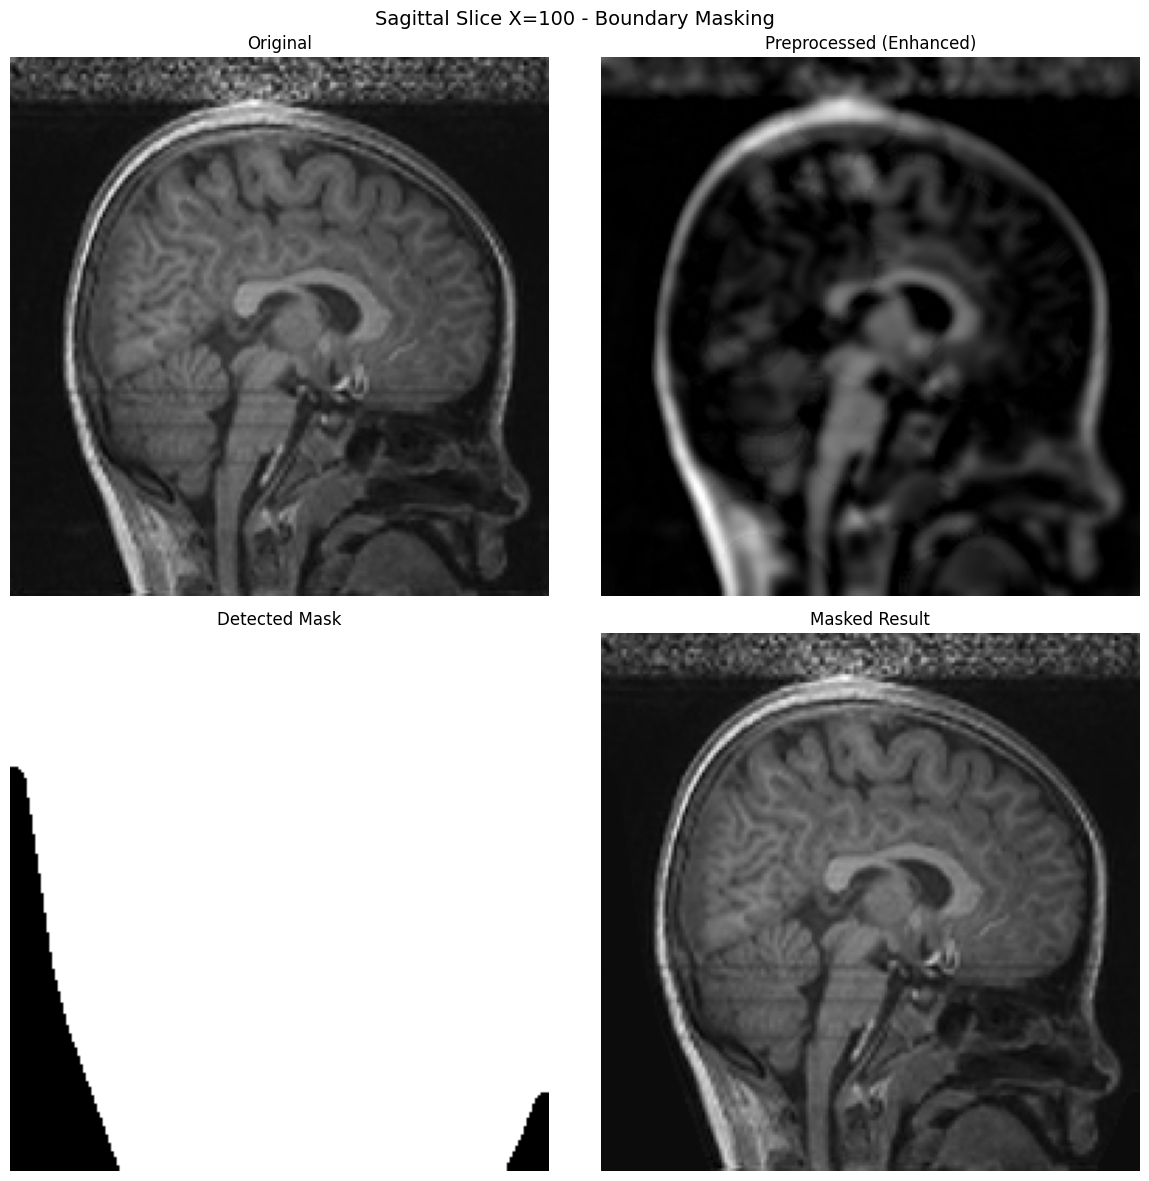
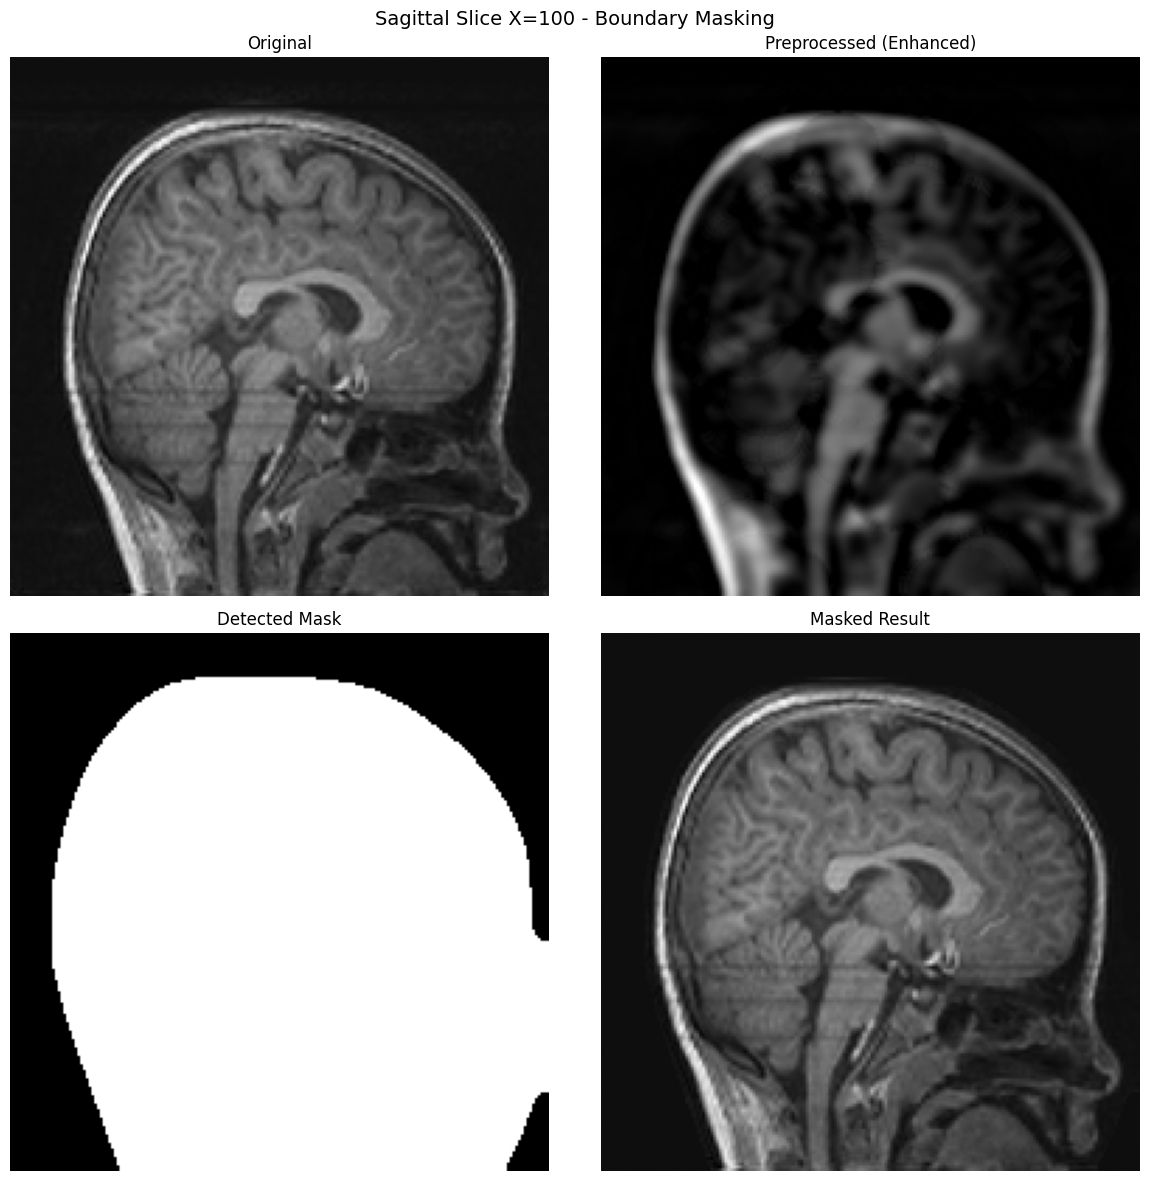
FIX: 처리 순서 변경 - Z-노이즈 제거 먼저, 그 다음 경계선 마스킹
문제점:
- 기존: 경계선 마스킹 → Z-노이즈 제거
- 결과: X=120 슬라이스에서 위쪽 노이즈 영역도 contour 내부로 포함됨
- 마스크가 불필요하게 위로 확장됨

해결책:
- 순서 변경: Z-노이즈 제거 → 경계선 마스킹
- Z-축 위쪽을 먼저 0으로 만들고 나서 경계선 검출
- Contour가 노이즈 영역을 포함하지 않음

결과:
- 보존: 57.74% → 47.86% (더 정확한 마스킹)
- 제거: 42.26% → 52.14%
- X=120: 위쪽 노이즈 영역이 마스크에서 완전히 제외됨
- X=80: 깔끔한 마스크 유지
- 3뷰 비교: 모든 뷰에서 완벽

변경사항:
- run_full_pipeline():
  - Step 1: remove_z_noise() (이동)
  - Step 2: process_volume_sagittal() (이동)
  - 주석 추가: "이걸 먼저 해야 contour 검출 시 노이즈 영역이 포함되지 않음"

메타데이터 순서:
1. z_noise_removal (먼저)
2. boundary_mask_padding (나중)

시각화:
- X=120: Detected Mask에서 위쪽 완전 제외
- 모든 슬라이스에서 정확한 마스킹

diff --git a/boundary_mask_padding.py b/boundary_mask_padding.py
@@ -626,7 +626,17 @@ class BoundaryMaskProcessor:
             z_min_start: Z-축 노이즈 검색 시작 위치 (기본: 0.70)
             z_gradient_threshold: Z-축 gradient 임계값 (기본: 2.0)
         """
-        # 1. Sagittal 슬라이스 단위 처리 (경계선 마스킹)
+        # 1. Z-축 상단 노이즈 제거 먼저 (unified_denoise.py 방식)
+        # 중요: 이걸 먼저 해야 contour 검출 시 노이즈 영역이 포함되지 않음
+        z_boundary = None
+        if remove_z_noise:
+            z_boundary = self.remove_z_noise(
+                min_z_start=z_min_start,
+                gradient_threshold=z_gradient_threshold
+            )
+
+        # 2. Sagittal 슬라이스 단위 처리 (경계선 마스킹)
+        # Z-노이즈가 제거된 상태에서 경계선 검출
         visualization_slices = self.process_volume_sagittal(
             preprocess_method=preprocess_method,
             smooth_sigma=smooth_sigma,
@@ -637,14 +647,6 @@ class BoundaryMaskProcessor:
             refine_opening=refine_opening,
             visualize_every=visualize_every
         )
-
-        # 2. Z-축 상단 노이즈 제거 (unified_denoise.py 방식)
-        z_boundary = None
-        if remove_z_noise:
-            z_boundary = self.remove_z_noise(
-                min_z_start=z_min_start,
-                gradient_threshold=z_gradient_threshold
-            )
 
         # 3. 결과 저장
         self.save_output()
